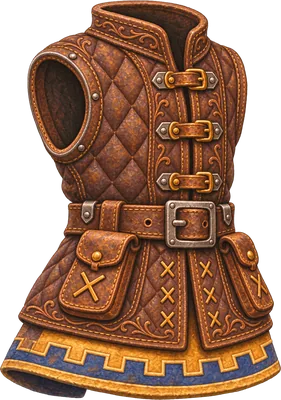
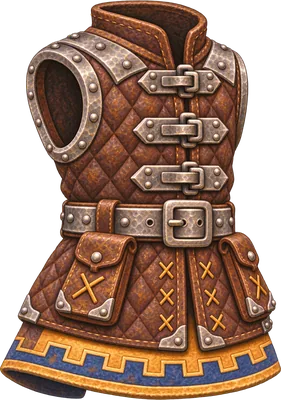
Publish game from private repository

diff --git a/index.html b/index.html
@@ -820,33 +820,37 @@ const WORLDS=[{n:2,name:'Riddarskolan',emoji:'🏰',boss:'Goblinkungen',bossArt:
 const TYPES=['Goblin','Varg','Skelett','Rövare','Spindel','Golem','Troll','Skugga','Väktare','Drake'];const ARTS=['👺','🐺','💀','🥷','🕷','🗿','👹','👻','🛡','🐉'];
 const MONSTERS=Array.from({length:50},(_,i)=>({id:i+1,name:['Moss','Natt','Sten','Eld','Is'][Math.floor(i/10)]+' '+TYPES[i%10],art:ARTS[i%10],world:Math.min(7,Math.floor(i/7)),hp:25+(i%5)*7}));
 const ITEMS = [
-  { id:'trainingblade', name:'Övningssvärd', art:'🗡', slot:'weapon', world:0, price:0, damage:0, look:'training', shopOnly:true },
-  { id:'trainingvest', name:'Träningsväst med mantel', art:'🧥', slot:'armor', world:0, price:35, hp:8, look:'training' },
-  { id:'traininghelm', name:'Övningshjälm', art:'🪖', slot:'helmet', world:0, price:25, hp:10, look:'training' },
-  { id:'trainingshield', name:'Rund träsköld', art:'🛡', slot:'shield', world:0, price:35, block:5, look:'training' },
+  { id:'trainingblade', name:'Övningssvärd', art:'🗡', slot:'weapon', world:0, price:0, damage:0, look:'training', shopOnly:true, forge:true },
+  { id:'trainingvest', name:'Läderväst med mantel', art:'🧥', slot:'armor', world:0, price:35, hp:8, look:'training', forge:true },
+  { id:'traininghelm', name:'Övningshjälm', art:'🪖', slot:'helmet', world:0, price:25, hp:10, look:'training', forge:true },
+  { id:'trainingshield', name:'Rund träsköld', art:'🛡', slot:'shield', world:0, price:35, block:5, look:'training', forge:true },
   { id:'iron', name:'Järnsvärd', art:'🗡', slot:'weapon', world:1, price:95, damage:5 },
-  { id:'steel', name:'Stålsvärd', art:'⚔', slot:'weapon', world:2, price:145, damage:10 },
+  { id:'steel', name:'Stålsvärd', art:'⚔', slot:'weapon', world:2, price:145, damage:10, forge:true },
   { id:'silver', name:'Silversvärd', art:'🗡', slot:'weapon', world:3, price:200, damage:15 },
   { id:'fire', name:'Eldsvärd', art:'🔥', slot:'weapon', world:4, price:265, damage:20 },
   { id:'dragonblade', name:'Draksvärd', art:'🐉', slot:'weapon', world:5, price:335, damage:25 },
   { id:'dawnblade', name:'Gryningssvärd', art:'🌅', slot:'weapon', world:6, price:415, damage:30 },
   { id:'runeblade', name:'Runsvärd', art:'⚔', slot:'weapon', world:7, price:505, damage:35 },
-  { id:'leather', name:'Förstärkt läderväst', art:'🧥', slot:'armor', world:1, price:70, hp:18 },
-  { id:'armor', name:'Riddarrustning', art:'🥋', slot:'armor', world:2, price:110, hp:32 },
+  { id:'leather', name:'Förstärkt läderväst', art:'🧥', slot:'armor', world:1, price:70, hp:18, forge:true },
+  { id:'armor', name:'Läderrustning', art:'🥋', slot:'armor', world:2, price:110, hp:32, forge:true },
   { id:'plate', name:'Plåtrustning', art:'🛡', slot:'armor', world:3, price:155, hp:49 },
   { id:'emberarmor', name:'Glödrustning', art:'🔥', slot:'armor', world:4, price:210, hp:67 },
   { id:'dragonarmor', name:'Drakfjällsrustning', art:'🐉', slot:'armor', world:5, price:270, hp:85 },
   { id:'dawnarmor', name:'Gryningsrustning', art:'🌅', slot:'armor', world:6, price:335, hp:106 },
   { id:'runearmor', name:'Runrustning', art:'✨', slot:'armor', world:7, price:410, hp:130 },
+  { id:'leatherhelm', name:'Öppen stålhjälm', art:'🪖', slot:'helmet', world:2, price:65, hp:14, forge:true },
+  { id:'leathershield', name:'Stålbeslagen sköld', art:'🛡', slot:'shield', world:2, price:70, block:7, forge:true },
   { id:'crown', name:'Riddarhjälm', art:'👑', slot:'helmet', world:3, price:105, hp:20 },
   { id:'shield', name:'Runsköld', art:'🛡', slot:'shield', world:3, price:115, block:10 }
 ];
 
+const FORGE_ITEMS = ITEMS.filter(item => item.forge);
 const GEAR_SLOTS = [
   ['armor', 'Rustning'], ['weapon', 'Svärd'], ['helmet', 'Hjälm'], ['shield', 'Sköld']
 ];
 const OUTFITS = {
-  training: { name: 'Basic-setet', gear: { armor:'trainingvest', weapon:'trainingblade', helmet:'traininghelm', shield:'trainingshield' } }
+  training: { name: 'Läder', gear: { armor:'trainingvest', weapon:'trainingblade', helmet:'traininghelm', shield:'trainingshield' } },
+  steel: { name: 'Läderrustning', gear: { armor:'armor', weapon:'steel', helmet:'leatherhelm', shield:'leathershield' } }
 };
 let fittingGear = null;
 let selectedGearSlot = 'armor';
@@ -1291,6 +1295,10 @@ const FITTED_ART = {
   trainingblade: { file:'svard', x:65, y:48, width:79, height:152, transform:'rotate(12 123 165)' },
   trainingvest: { file:'vast', ...VEST_FIT },
   leather: { file:'ladervast', ...VEST_FIT },
+  armor: { file:'laderrustning', ...VEST_FIT },
+  steel: { file:'stal-svard', x:45, y:43, width:101, height:148, transform:'rotate(8 123 165)' },
+  leatherhelm: { file:'stal-hjalm', x:132, y:8, width:108, height:103 },
+  leathershield: { file:'stal-skold', x:226, y:179, width:80, height:96 },
   traininghelm: { file:'hjalm', x:132, y:22, width:108, height:103 },
   trainingshield: { file:'skold', x:226, y:179, width:80, height:96 }
 };
@@ -1494,7 +1502,7 @@ function game() {
 }
 function questionUIIfReady(){return s.event||s.pendingDefense||s.gearChallenge||s.phase==='battle'&&!s.battle?.move?'':questionUI()}
 function itemAvailable(item) {
-  return item.world === 0 || s.cleared.includes(item.world - 1);
+  return item.forge && (item.world === 0 || s.cleared.includes(item.world - 1));
 }
 
 function changeEquipment(slot, id) {
@@ -1541,20 +1549,20 @@ function wardrobePreview(equipment, trying) {
 function shop() {
   const balance = worldBalance(s.world);
   const danger = balance.bossDamage + BOSS_PHASE_DAMAGE + BOSS_SPECIAL_DAMAGE;
-  const gear = ITEMS.filter(item => item.world === s.world && ['weapon','armor'].includes(item.slot) && !item.look);
+  const gear = FORGE_ITEMS.filter(item => item.world === s.world && ['weapon','armor'].includes(item.slot) && !item.look);
   const draft = fittingGear || s.equipment;
   return `<div class="panel wardrobe-panel">
     <div class="top"><h2 class="title">⚒ Smedjan · 🪙 ${s.gold}</h2>
       <button class="btn secondary" data-nav="inventory">🎒 Inventarie</button></div>
     ${wardrobePreview(draft, true)}
-    <p class="wardrobe-stock-status">${ITEMS.filter(itemAvailable).length} upplåsta delar av ${ITEMS.length} · Köp sparas i inventariet.</p>
+    <p class="wardrobe-stock-status">${FORGE_ITEMS.filter(itemAvailable).length} upplåsta delar av ${FORGE_ITEMS.length} · Köp sparas i inventariet.</p>
     ${gearPicker()}
-    <div class="grid wardrobe-stock">${ITEMS.filter(item => item.slot === selectedGearSlot).map(item => {
+    <div class="grid wardrobe-stock">${FORGE_ITEMS.filter(item => item.slot === selectedGearSlot).map(item => {
       const owned = s.inventory.includes(item.id);
       const available = itemAvailable(item);
       return `<div class="shopitem">
         <div class="art">${gearThumbnail(item)}</div><strong>${item.name}</strong><div>${itemStats(item)}</div>
-        <small>${item.look === 'training' ? 'Basic · ' : ''}${owned ? 'Ägd' : item.price ? item.price + ' guld' : 'Gratis'}</small>
+        <small>${item.look === 'training' ? 'Läder · ' : ''}${owned ? 'Ägd' : item.price ? item.price + ' guld' : 'Gratis'}</small>
         ${!available && !owned ? `<small class="shop-unlock">Besegra ${WORLDS[item.world - 1].boss} för att låsa upp</small>` : ''}
         <div class="actions">
           <button class="btn secondary small" data-try-item="${item.id}" aria-pressed="${draft[item.slot] === item.id}">${draft[item.slot] === item.id ? 'Provas' : 'Prova'}</button>
@@ -1565,7 +1573,8 @@ function shop() {
       <strong>${WORLDS[s.world].boss} · ${balance.bossHp} HP</strong>
       <p>Starkaste motattacken gör ${danger} skada före skölden. Du har ${maxHp()} max HP och gör ${dmg()} grundskada.</p>
       ${danger >= maxHp() ? '<p class="danger">Ett enda sådant slag kan fälla hjälten. Öka max HP med bättre rustning eller hjälm.</p>' : ''}
-      <p>${gear.length ? 'Rekommenderad utrustning: '+gear.map(item=>item.name+' ('+item.price+' guld)').join(' och ')+'.' : 'Grundattacken räcker för sex rätta attacktal mot Goblinkungen. Hämta ett gratis övningssvärd i smedjan.'}</p>
+      ${gear.length ? '<p>Utrustning för denna värld: '+gear.map(item=>item.name+' ('+item.price+' guld)').join(' och ')+'.</p>' :
+        s.world === 0 ? '<p>Grundattacken räcker för sex rätta attacktal mot Goblinkungen. Hämta ett gratis övningssvärd i smedjan.</p>' : ''}
     </div>
   </div>`;
 }

diff --git a/sw.js b/sw.js
@@ -1,1 +1,1 @@
-const CACHE='multiplikationsriket-v143-basic-utrustning';const ASSETS=['./','./index.html','./manifest.webmanifest','./icon.svg',...Array.from({length:8},(_,i)=>'./assets/world-'+(i+2)+'.svg'),...Array.from({length:50},(_,i)=>'./assets/card-'+String(i+1).padStart(2,'0')+'.svg'),...Array.from({length:7},(_,i)=>'./assets/monster-'+i+'.svg'),'./assets/backgrounds/riddarskolan-arena.webp','./assets/backgrounds/riddarens-resa.webp','./assets/backgrounds/riddarskolan-skolvag.webp','./assets/backgrounds/riddarskolan-stenbro.webp','./assets/backgrounds/riddarskolan-borgport.webp','./assets/world-map-portrait.png','./assets/multiplikationsriket-kartbakgrund.webp','./assets/characters/borgvapnaren.webp',...['vast','ladervast','mantel','hjalm','skold','svard'].map(part=>'./assets/characters/borgvapnaren-'+part+'.webp'),'./assets/shield.svg'];self.addEventListener('install',e=>{e.waitUntil(caches.open(CACHE).then(c=>c.addAll(ASSETS)).then(()=>self.skipWaiting()))});self.addEventListener('activate',e=>{e.waitUntil(caches.keys().then(keys=>Promise.all(keys.filter(k=>k!==CACHE).map(k=>caches.delete(k)))).then(()=>self.clients.claim()))});self.addEventListener('fetch',e=>{if(e.request.method!=='GET')return;e.respondWith((e.request.mode==='navigate'?fetch(e.request).then(response=>{if(response.ok){const copy=response.clone();caches.open(CACHE).then(c=>c.put(e.request,copy))}return response}).catch(()=>caches.match(e.request)):caches.match(e.request).then(r=>r||fetch(e.request).then(response=>{if(response.ok&&new URL(e.request.url).origin===location.origin){const copy=response.clone();caches.open(CACHE).then(c=>c.put(e.request,copy))}return response}))))})
+const CACHE='multiplikationsriket-v144-laderrustning';const ASSETS=['./','./index.html','./manifest.webmanifest','./icon.svg',...Array.from({length:8},(_,i)=>'./assets/world-'+(i+2)+'.svg'),...Array.from({length:50},(_,i)=>'./assets/card-'+String(i+1).padStart(2,'0')+'.svg'),...Array.from({length:7},(_,i)=>'./assets/monster-'+i+'.svg'),'./assets/backgrounds/riddarskolan-arena.webp','./assets/backgrounds/riddarens-resa.webp','./assets/backgrounds/riddarskolan-skolvag.webp','./assets/backgrounds/riddarskolan-stenbro.webp','./assets/backgrounds/riddarskolan-borgport.webp','./assets/world-map-portrait.png','./assets/multiplikationsriket-kartbakgrund.webp','./assets/characters/borgvapnaren.webp',...['vast','ladervast','mantel','hjalm','skold','svard','laderrustning','stal-hjalm','stal-skold','stal-svard'].map(part=>'./assets/characters/borgvapnaren-'+part+'.webp'),'./assets/shield.svg'];self.addEventListener('install',e=>{e.waitUntil(caches.open(CACHE).then(c=>c.addAll(ASSETS)).then(()=>self.skipWaiting()))});self.addEventListener('activate',e=>{e.waitUntil(caches.keys().then(keys=>Promise.all(keys.filter(k=>k!==CACHE).map(k=>caches.delete(k)))).then(()=>self.clients.claim()))});self.addEventListener('fetch',e=>{if(e.request.method!=='GET')return;e.respondWith((e.request.mode==='navigate'?fetch(e.request).then(response=>{if(response.ok){const copy=response.clone();caches.open(CACHE).then(c=>c.put(e.request,copy))}return response}).catch(()=>caches.match(e.request)):caches.match(e.request).then(r=>r||fetch(e.request).then(response=>{if(response.ok&&new URL(e.request.url).origin===location.origin){const copy=response.clone();caches.open(CACHE).then(c=>c.put(e.request,copy))}return response}))))})
